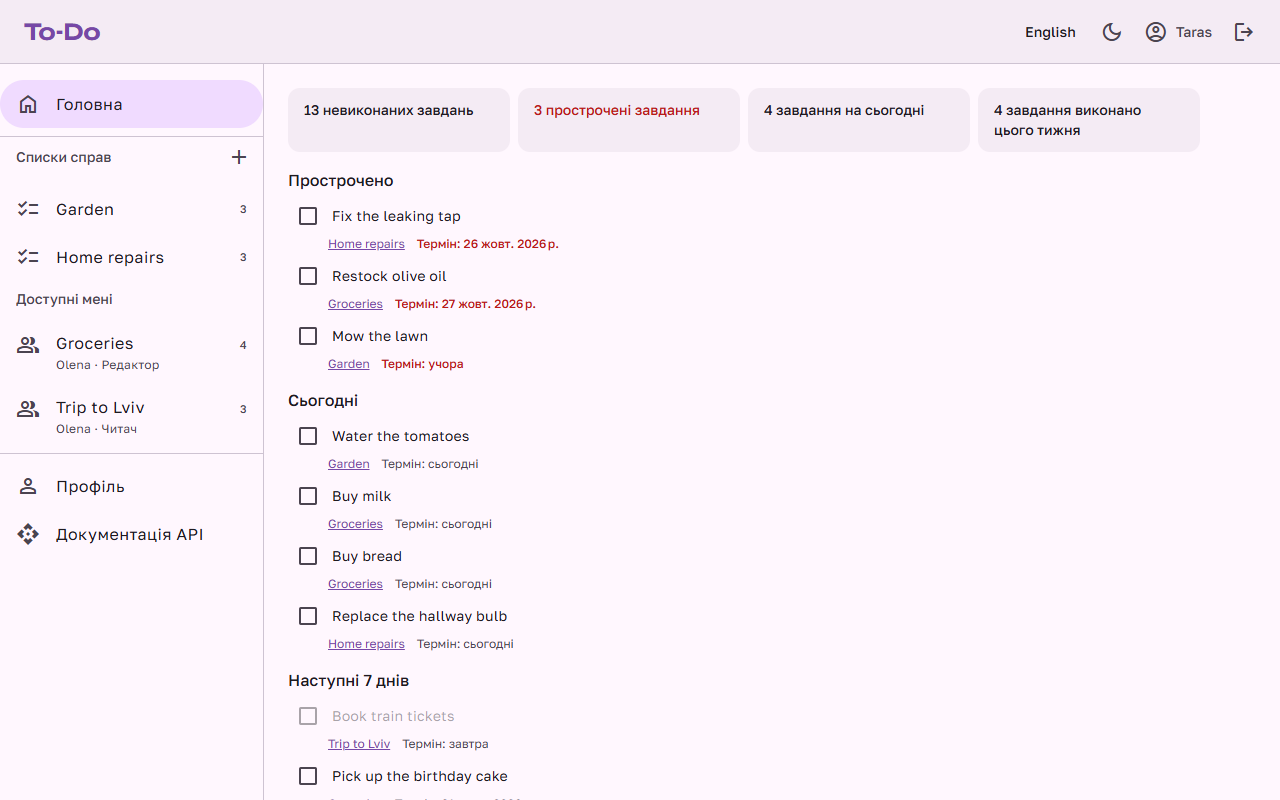
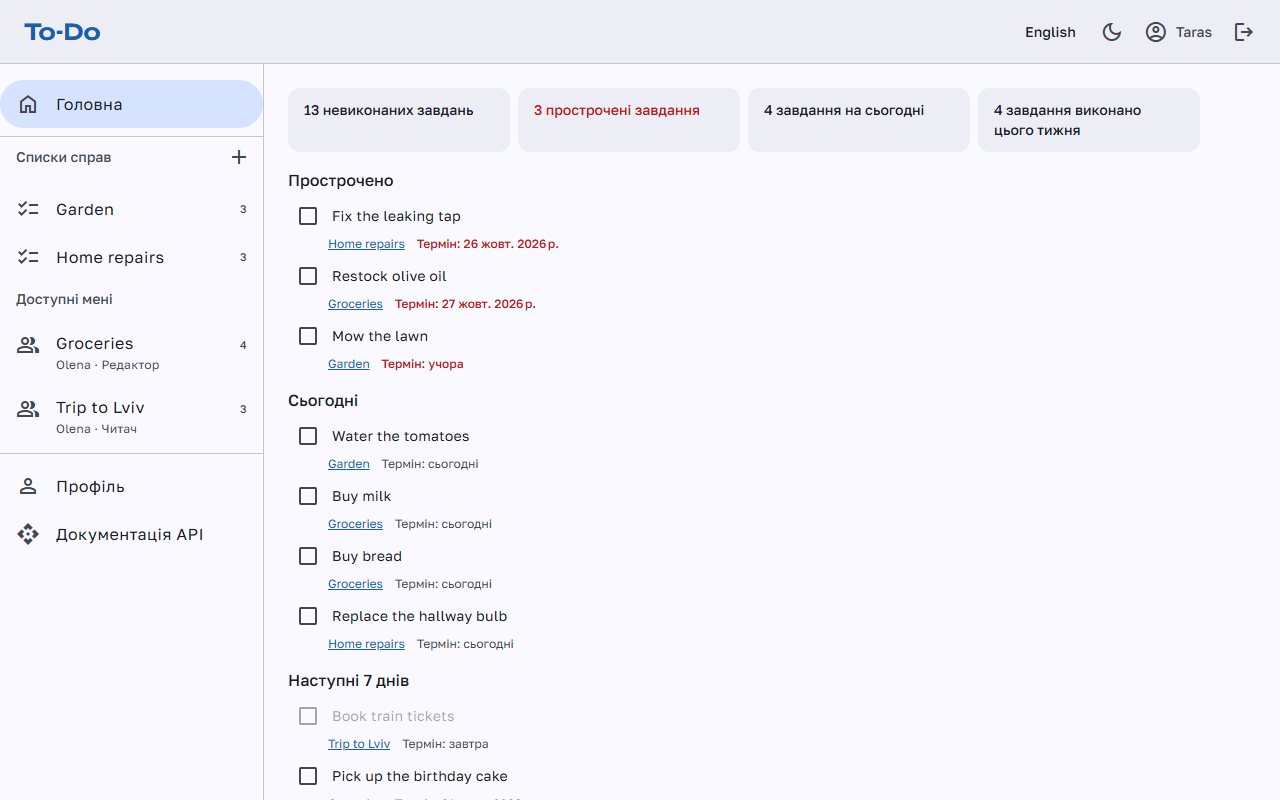
Blue colour palette, and screenshots to match
The theme's palettes are generated again with a blue primary seed, cobalt
#1F5FAD, in place of plum; marigold stays the tertiary. Everything takes
its colours from the theme, so nothing else changes. The README's
screenshots are taken again from the running app, in both languages and
both themes.

diff --git a/frontend/src/_theme-colors.scss b/frontend/src/_theme-colors.scss
@@ -4,42 +4,42 @@
 @use 'sass:map';
 @use '@angular/material' as mat;
 
-// Note: Color palettes are generated from primary: #5D2E8C, tertiary: #E59E1A
+// Note: Color palettes are generated from primary: #1F5FAD, tertiary: #E59E1A
 $_palettes: (
   primary: (
     0: #000000,
-    10: #2c0051,
-    20: #451274,
-    25: #512180,
-    30: #5d2e8c,
-    35: #6a3b99,
-    40: #7648a6,
-    50: #9161c1,
-    60: #ac7bdd,
-    70: #c895fa,
-    80: #dcb8ff,
-    90: #f0dbff,
-    95: #f9ecff,
-    98: #fff7fe,
-    99: #fffbff,
+    10: #001b3d,
+    20: #003062,
+    25: #003b76,
+    30: #00468a,
+    35: #02529f,
+    40: #1d5eac,
+    50: #3f77c7,
+    60: #5b91e3,
+    70: #78acff,
+    80: #a8c8ff,
+    90: #d6e3ff,
+    95: #ecf0ff,
+    98: #f9f9ff,
+    99: #fdfbff,
     100: #ffffff,
   ),
   secondary: (
     0: #000000,
-    10: #241336,
-    20: #3a294c,
-    25: #463458,
-    30: #523f64,
-    35: #5e4a70,
-    40: #6a567d,
-    50: #846f97,
-    60: #9e88b2,
-    70: #b9a2cd,
-    80: #d6bdea,
-    90: #f0dbff,
-    95: #f9ecff,
-    98: #fff7fe,
-    99: #fffbff,
+    10: #061b38,
+    20: #1e314e,
+    25: #293c5a,
+    30: #354766,
+    35: #415372,
+    40: #4d5f7f,
+    50: #657899,
+    60: #7f91b4,
+    70: #99accf,
+    80: #b4c7ec,
+    90: #d6e3ff,
+    95: #ecf0ff,
+    98: #f9f9ff,
+    99: #fdfbff,
     100: #ffffff,
   ),
   tertiary: (
@@ -62,48 +62,48 @@ $_palettes: (
   ),
   neutral: (
     0: #000000,
-    10: #1e1a20,
-    20: #332f36,
-    25: #3e3a41,
-    30: #4a454c,
-    35: #565158,
-    40: #625d64,
-    50: #7b757d,
-    60: #958f97,
-    70: #b0a9b1,
-    80: #ccc4cd,
-    90: #e8e0e9,
-    95: #f7eef7,
-    98: #fff7fe,
-    99: #fffbff,
+    10: #191c21,
+    20: #2e3036,
+    25: #393b41,
+    30: #44474c,
+    35: #505258,
+    40: #5c5e64,
+    50: #75777d,
+    60: #8f9097,
+    70: #aaabb2,
+    80: #c5c6cd,
+    90: #e1e2e9,
+    95: #f0f0f7,
+    98: #f9f9ff,
+    99: #fdfbff,
     100: #ffffff,
-    4: #100d13,
-    6: #151218,
-    12: #221e25,
-    17: #2c282f,
-    22: #37333a,
-    24: #3c383e,
-    87: #e0d7e0,
-    92: #eee6ef,
-    94: #f4ebf4,
-    96: #faf1fa,
+    4: #0c0e13,
+    6: #111318,
+    12: #1d2025,
+    17: #282a2f,
+    22: #32353a,
+    24: #37393f,
+    87: #d9d9e1,
+    92: #e7e8ef,
+    94: #ededf5,
+    96: #f3f3fa,
   ),
   neutral-variant: (
     0: #000000,
-    10: #1f1924,
-    20: #342e3a,
-    25: #403945,
-    30: #4b4450,
-    35: #57505c,
-    40: #635b69,
-    50: #7d7482,
-    60: #978d9c,
-    70: #b2a8b6,
-    80: #cec3d2,
-    90: #eadfee,
-    95: #f9edfd,
-    98: #fff7fe,
-    99: #fffbff,
+    10: #171c25,
+    20: #2c313a,
+    25: #373b46,
+    30: #424751,
+    35: #4e525d,
+    40: #5a5e69,
+    50: #727782,
+    60: #8c919c,
+    70: #a7abb7,
+    80: #c2c6d3,
+    90: #dee2ef,
+    95: #ecf0fe,
+    98: #f9f9ff,
+    99: #fdfbff,
     100: #ffffff,
   ),
   error: (

diff --git a/frontend/src/styles.scss b/frontend/src/styles.scss
@@ -3,7 +3,7 @@
 // https://material.angular.dev/guide/theming
 @use '@angular/material' as mat;
 // Generated from two seeds by `ng generate @angular/material:theme-color`:
-// plum ink #5D2E8C (primary) and marigold #E59E1A (tertiary)
+// cobalt #1F5FAD (primary) and marigold #E59E1A (tertiary)
 @use 'theme-colors';
 
 html {
